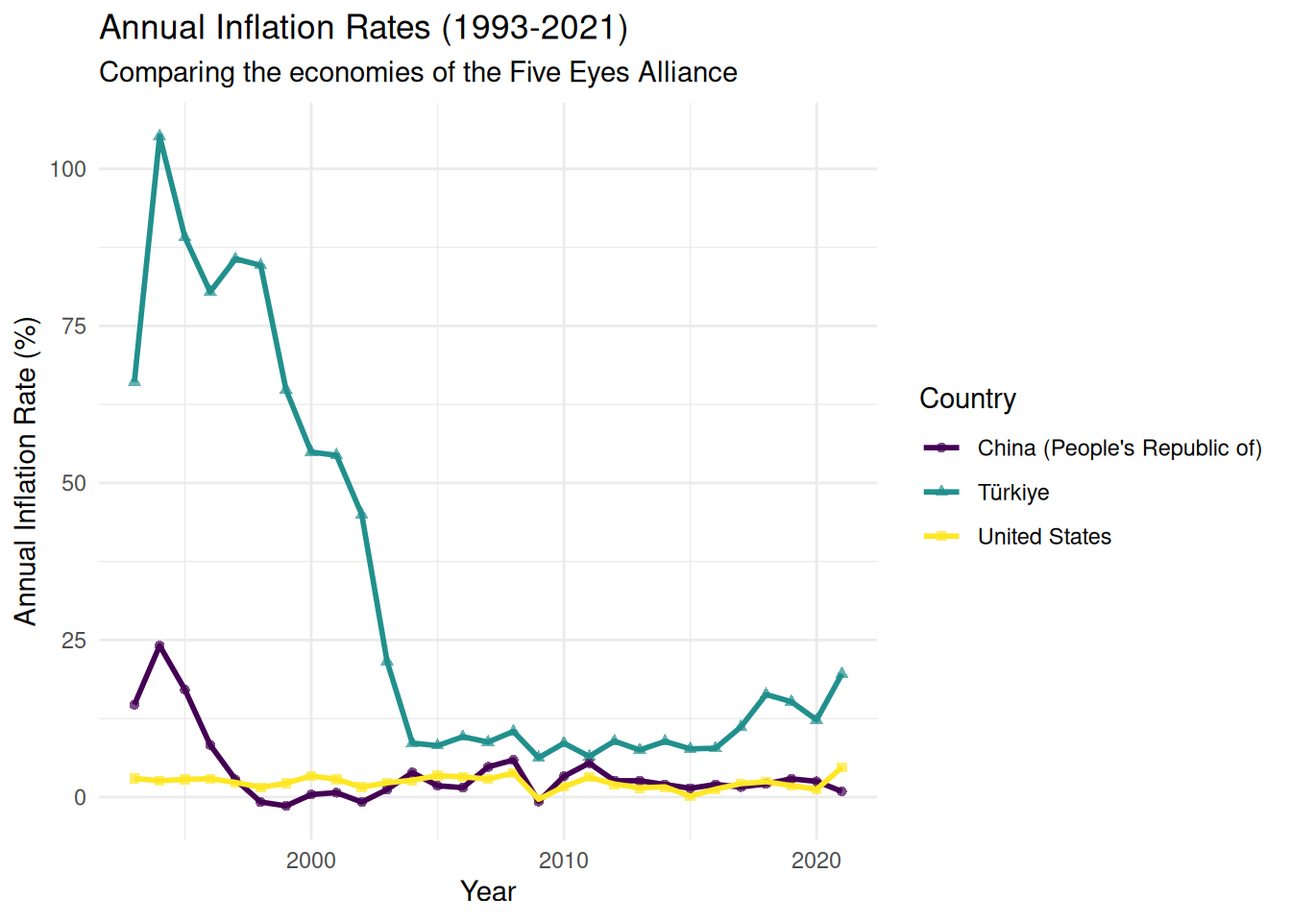
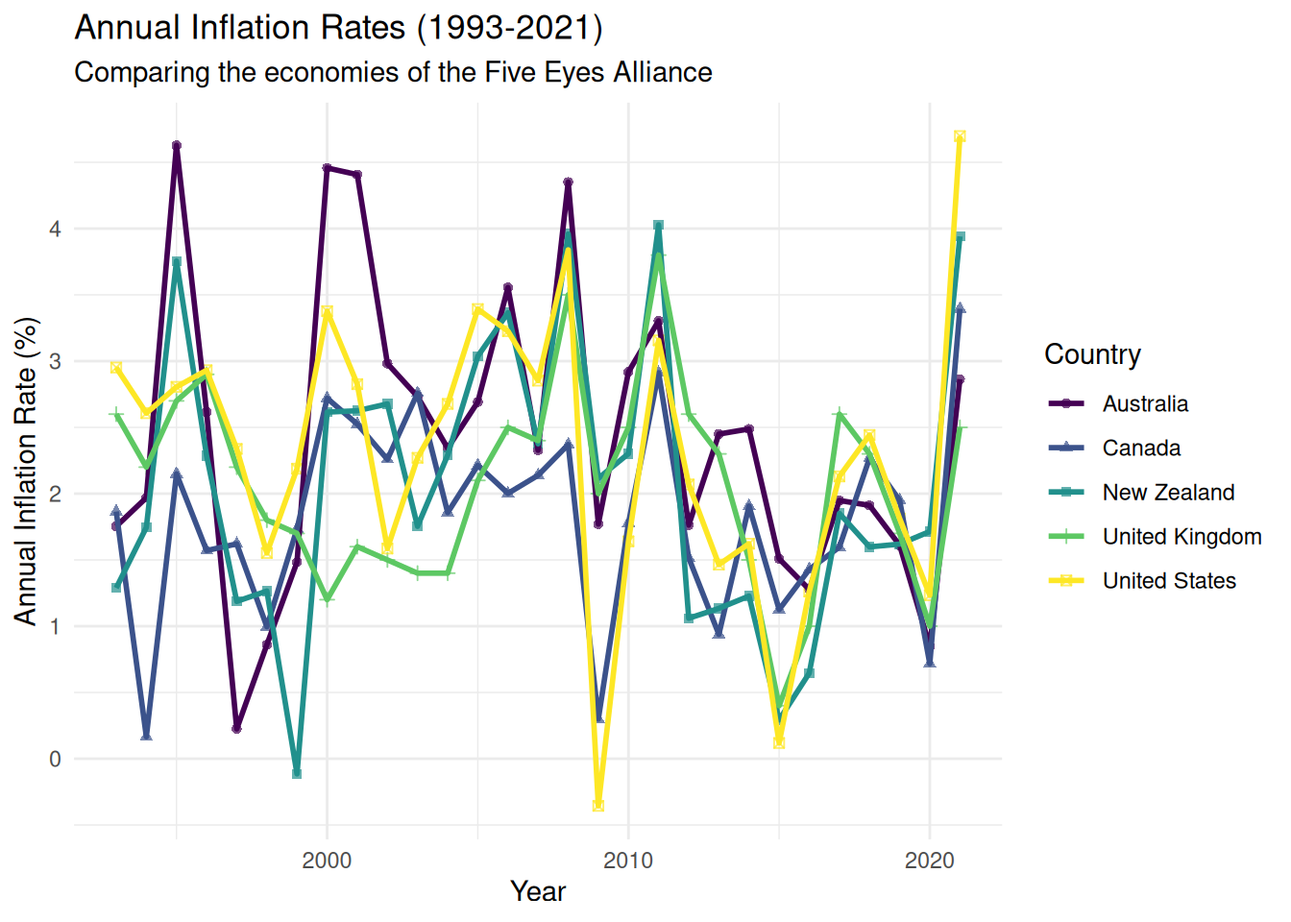
final formatting and wording tweaks

diff --git a/lab-3.html b/lab-3.html
@@ -528,12 +528,6 @@ Important
 <div class="cell">
 <div class="code-copy-outer-scaffold"><div class="sourceCode cell-code" id="cb23"><pre class="sourceCode r code-with-copy"><code class="sourceCode r"><span id="cb23-1"><a href="#cb23-1" aria-hidden="true" tabindex="-1"></a>countries_of_interest <span class="ot">&lt;-</span> <span class="fu">c</span>(<span class="st">"United States"</span>, <span class="st">"Canada"</span>, <span class="st">"United Kingdom"</span>, <span class="st">"New Zealand"</span>, <span class="st">"Australia"</span>)</span></code></pre></div><button title="Copy to Clipboard" class="code-copy-button"><i class="bi"></i></button></div>
 </div>
-<p>If they are Türkiye, United States, and China, you can express this as follows:</p>
-<div class="cell">
-<div class="code-copy-outer-scaffold"><div class="sourceCode cell-code" id="cb24"><pre class="sourceCode r code-with-copy"><code class="sourceCode r"><span id="cb24-1"><a href="#cb24-1" aria-hidden="true" tabindex="-1"></a>countries_of_interest <span class="ot">&lt;-</span> <span class="fu">c</span>(</span>
-<span id="cb24-2"><a href="#cb24-2" aria-hidden="true" tabindex="-1"></a>  <span class="st">"Türkiye"</span>, <span class="st">"United States"</span>, <span class="st">"China (People's Republic of)"</span></span>
-<span id="cb24-3"><a href="#cb24-3" aria-hidden="true" tabindex="-1"></a>)</span></code></pre></div><button title="Copy to Clipboard" class="code-copy-button"><i class="bi"></i></button></div>
-</div>
 <p>So on and so forth… Then, in 1-2 sentences, state why you chose these countries.</p>
 <p>These are the five eyes countries and I think it would be interesting to how these intelligence sharing countries also share inflation and economic indicators.</p>
 <div class="callout callout-style-default callout-note callout-titled">
@@ -551,18 +545,20 @@ Note
 </div>
 <p>b. In a single pipeline, filter your reshaped dataset to include only the <code>countries_of_interest</code> from part (a), and save the resulting data frame with a new name so you (1) can refer to this data frame later in your analysis and (2) do not overwrite the data frame you’re starting with. Use a short but informative name. Then, in a new pipeline, find the <code>distinct()</code> countries in the data frame you created.</p>
 <div class="cell">
-<div class="code-copy-outer-scaffold"><div class="sourceCode cell-code" id="cb25"><pre class="sourceCode r code-with-copy"><code class="sourceCode r"><span id="cb25-1"><a href="#cb25-1" aria-hidden="true" tabindex="-1"></a>coi_inflation <span class="ot">&lt;-</span> country_inflation_longer <span class="sc">|&gt;</span></span>
-<span id="cb25-2"><a href="#cb25-2" aria-hidden="true" tabindex="-1"></a>  <span class="fu">filter</span>(country <span class="sc">%in%</span> countries_of_interest)</span>
-<span id="cb25-3"><a href="#cb25-3" aria-hidden="true" tabindex="-1"></a></span>
-<span id="cb25-4"><a href="#cb25-4" aria-hidden="true" tabindex="-1"></a>coi_inflation <span class="sc">|&gt;</span></span>
-<span id="cb25-5"><a href="#cb25-5" aria-hidden="true" tabindex="-1"></a>  <span class="fu">distinct</span>(country)</span></code></pre></div><button title="Copy to Clipboard" class="code-copy-button"><i class="bi"></i></button></div>
+<div class="code-copy-outer-scaffold"><div class="sourceCode cell-code" id="cb24"><pre class="sourceCode r code-with-copy"><code class="sourceCode r"><span id="cb24-1"><a href="#cb24-1" aria-hidden="true" tabindex="-1"></a>coi_inflation <span class="ot">&lt;-</span> country_inflation_longer <span class="sc">|&gt;</span></span>
+<span id="cb24-2"><a href="#cb24-2" aria-hidden="true" tabindex="-1"></a>  <span class="fu">filter</span>(country <span class="sc">%in%</span> countries_of_interest)</span>
+<span id="cb24-3"><a href="#cb24-3" aria-hidden="true" tabindex="-1"></a></span>
+<span id="cb24-4"><a href="#cb24-4" aria-hidden="true" tabindex="-1"></a>coi_inflation <span class="sc">|&gt;</span></span>
+<span id="cb24-5"><a href="#cb24-5" aria-hidden="true" tabindex="-1"></a>  <span class="fu">distinct</span>(country)</span></code></pre></div><button title="Copy to Clipboard" class="code-copy-button"><i class="bi"></i></button></div>
 <div class="cell-output cell-output-stdout">
-<pre><code># A tibble: 3 × 1
-  country                     
-  &lt;chr&gt;                       
-1 Türkiye                     
-2 United States               
-3 China (People's Republic of)</code></pre>
+<pre><code># A tibble: 5 × 1
+  country       
+  &lt;chr&gt;         
+1 Australia     
+2 Canada        
+3 New Zealand   
+4 United Kingdom
+5 United States </code></pre>
 </div>
 </div>
 <div class="callout callout-style-default callout-tip callout-titled">
@@ -591,19 +587,19 @@ Tip
 <li>Plot should be customized in at least one way – you could use a different than default color scale, or different than default theme, or some other customization.</li>
 </ul>
 <div class="cell">
-<div class="code-copy-outer-scaffold"><div class="sourceCode cell-code" id="cb27"><pre class="sourceCode r code-with-copy"><code class="sourceCode r"><span id="cb27-1"><a href="#cb27-1" aria-hidden="true" tabindex="-1"></a><span class="fu">ggplot</span>(coi_inflation, <span class="fu">aes</span>(<span class="at">x =</span> year, <span class="at">y =</span> annual_inflation, <span class="at">color =</span> country, <span class="at">shape =</span> country)) <span class="sc">+</span></span>
-<span id="cb27-2"><a href="#cb27-2" aria-hidden="true" tabindex="-1"></a>  <span class="fu">geom_point</span>(<span class="at">alpha =</span> <span class="fl">0.7</span>) <span class="sc">+</span></span>
-<span id="cb27-3"><a href="#cb27-3" aria-hidden="true" tabindex="-1"></a>  <span class="fu">geom_line</span>(<span class="at">linewidth =</span> <span class="dv">1</span>) <span class="sc">+</span></span>
-<span id="cb27-4"><a href="#cb27-4" aria-hidden="true" tabindex="-1"></a>  <span class="fu">scale_color_viridis_d</span>() <span class="sc">+</span></span>
-<span id="cb27-5"><a href="#cb27-5" aria-hidden="true" tabindex="-1"></a>  <span class="fu">theme_minimal</span>() <span class="sc">+</span></span>
-<span id="cb27-6"><a href="#cb27-6" aria-hidden="true" tabindex="-1"></a>  <span class="fu">labs</span>(</span>
-<span id="cb27-7"><a href="#cb27-7" aria-hidden="true" tabindex="-1"></a>    <span class="at">title =</span> <span class="st">"Annual Inflation Rates (1993-2021)"</span>,</span>
-<span id="cb27-8"><a href="#cb27-8" aria-hidden="true" tabindex="-1"></a>    <span class="at">subtitle =</span> <span class="st">"Comparing the economies of the Five Eyes Alliance"</span>,</span>
-<span id="cb27-9"><a href="#cb27-9" aria-hidden="true" tabindex="-1"></a>    <span class="at">x =</span> <span class="st">"Year"</span>,</span>
-<span id="cb27-10"><a href="#cb27-10" aria-hidden="true" tabindex="-1"></a>    <span class="at">y =</span> <span class="st">"Annual Inflation Rate (%)"</span>,</span>
-<span id="cb27-11"><a href="#cb27-11" aria-hidden="true" tabindex="-1"></a>    <span class="at">color =</span> <span class="st">"Country"</span>,</span>
-<span id="cb27-12"><a href="#cb27-12" aria-hidden="true" tabindex="-1"></a>    <span class="at">shape =</span> <span class="st">"Country"</span></span>
-<span id="cb27-13"><a href="#cb27-13" aria-hidden="true" tabindex="-1"></a>  )</span></code></pre></div><button title="Copy to Clipboard" class="code-copy-button"><i class="bi"></i></button></div>
+<div class="code-copy-outer-scaffold"><div class="sourceCode cell-code" id="cb26"><pre class="sourceCode r code-with-copy"><code class="sourceCode r"><span id="cb26-1"><a href="#cb26-1" aria-hidden="true" tabindex="-1"></a><span class="fu">ggplot</span>(coi_inflation, <span class="fu">aes</span>(<span class="at">x =</span> year, <span class="at">y =</span> annual_inflation, <span class="at">color =</span> country, <span class="at">shape =</span> country)) <span class="sc">+</span></span>
+<span id="cb26-2"><a href="#cb26-2" aria-hidden="true" tabindex="-1"></a>  <span class="fu">geom_point</span>(<span class="at">alpha =</span> <span class="fl">0.7</span>) <span class="sc">+</span></span>
+<span id="cb26-3"><a href="#cb26-3" aria-hidden="true" tabindex="-1"></a>  <span class="fu">geom_line</span>(<span class="at">linewidth =</span> <span class="dv">1</span>) <span class="sc">+</span></span>
+<span id="cb26-4"><a href="#cb26-4" aria-hidden="true" tabindex="-1"></a>  <span class="fu">scale_color_viridis_d</span>() <span class="sc">+</span></span>
+<span id="cb26-5"><a href="#cb26-5" aria-hidden="true" tabindex="-1"></a>  <span class="fu">theme_minimal</span>() <span class="sc">+</span></span>
+<span id="cb26-6"><a href="#cb26-6" aria-hidden="true" tabindex="-1"></a>  <span class="fu">labs</span>(</span>
+<span id="cb26-7"><a href="#cb26-7" aria-hidden="true" tabindex="-1"></a>    <span class="at">title =</span> <span class="st">"Annual Inflation Rates (1993-2021)"</span>,</span>
+<span id="cb26-8"><a href="#cb26-8" aria-hidden="true" tabindex="-1"></a>    <span class="at">subtitle =</span> <span class="st">"Comparing the economies of the Five Eyes Alliance"</span>,</span>
+<span id="cb26-9"><a href="#cb26-9" aria-hidden="true" tabindex="-1"></a>    <span class="at">x =</span> <span class="st">"Year"</span>,</span>
+<span id="cb26-10"><a href="#cb26-10" aria-hidden="true" tabindex="-1"></a>    <span class="at">y =</span> <span class="st">"Annual Inflation Rate (%)"</span>,</span>
+<span id="cb26-11"><a href="#cb26-11" aria-hidden="true" tabindex="-1"></a>    <span class="at">color =</span> <span class="st">"Country"</span>,</span>
+<span id="cb26-12"><a href="#cb26-12" aria-hidden="true" tabindex="-1"></a>    <span class="at">shape =</span> <span class="st">"Country"</span></span>
+<span id="cb26-13"><a href="#cb26-13" aria-hidden="true" tabindex="-1"></a>  )</span></code></pre></div><button title="Copy to Clipboard" class="code-copy-button"><i class="bi"></i></button></div>
 <div class="cell-output-display">
 <div>
 <figure class="figure">
@@ -632,13 +628,13 @@ Tip
 </ul>
 <p>Let’s load both of these files.</p>
 <div class="cell">
-<div class="code-copy-outer-scaffold"><div class="sourceCode cell-code" id="cb28"><pre class="sourceCode r code-with-copy"><code class="sourceCode r"><span id="cb28-1"><a href="#cb28-1" aria-hidden="true" tabindex="-1"></a>us_inflation <span class="ot">&lt;-</span> <span class="fu">read_csv</span>(<span class="st">"data/us-inflation.csv"</span>)</span>
-<span id="cb28-2"><a href="#cb28-2" aria-hidden="true" tabindex="-1"></a>cpi_divisions <span class="ot">&lt;-</span> <span class="fu">read_csv</span>(<span class="st">"data/cpi-divisions.csv"</span>)</span></code></pre></div><button title="Copy to Clipboard" class="code-copy-button"><i class="bi"></i></button></div>
+<div class="code-copy-outer-scaffold"><div class="sourceCode cell-code" id="cb27"><pre class="sourceCode r code-with-copy"><code class="sourceCode r"><span id="cb27-1"><a href="#cb27-1" aria-hidden="true" tabindex="-1"></a>us_inflation <span class="ot">&lt;-</span> <span class="fu">read_csv</span>(<span class="st">"data/us-inflation.csv"</span>)</span>
+<span id="cb27-2"><a href="#cb27-2" aria-hidden="true" tabindex="-1"></a>cpi_divisions <span class="ot">&lt;-</span> <span class="fu">read_csv</span>(<span class="st">"data/cpi-divisions.csv"</span>)</span></code></pre></div><button title="Copy to Clipboard" class="code-copy-button"><i class="bi"></i></button></div>
 </div>
 <section id="question-8" class="level3">
 <h3 class="anchored" data-anchor-id="question-8">Question 8</h3>
 <div class="cell">
-<div class="code-copy-outer-scaffold"><div class="sourceCode cell-code" id="cb29"><pre class="sourceCode r code-with-copy"><code class="sourceCode r"><span id="cb29-1"><a href="#cb29-1" aria-hidden="true" tabindex="-1"></a><span class="fu">glimpse</span>(us_inflation)</span></code></pre></div><button title="Copy to Clipboard" class="code-copy-button"><i class="bi"></i></button></div>
+<div class="code-copy-outer-scaffold"><div class="sourceCode cell-code" id="cb28"><pre class="sourceCode r code-with-copy"><code class="sourceCode r"><span id="cb28-1"><a href="#cb28-1" aria-hidden="true" tabindex="-1"></a><span class="fu">glimpse</span>(us_inflation)</span></code></pre></div><button title="Copy to Clipboard" class="code-copy-button"><i class="bi"></i></button></div>
 <div class="cell-output cell-output-stdout">
 <pre><code>Rows: 132
 Columns: 4
@@ -652,7 +648,7 @@ $ annual_inflation &lt;dbl&gt; 4.8039240, 2.4539620, 0.9083796, 2.6398010, 1.167
 <p>The us_inflation dataset contains 132 rows and 4 columns. The variables represent tracking information like the year, the inflation rate, and a numeric ID corresponding to a specific CPI division.</p>
 <p>b. How many columns and how many rows does the <code>cpi_divisions</code> dataset have? What are the variables in it? Add a brief (1-2 sentences) narrative summarizing this information.</p>
 <div class="cell">
-<div class="code-copy-outer-scaffold"><div class="sourceCode cell-code" id="cb31"><pre class="sourceCode r code-with-copy"><code class="sourceCode r"><span id="cb31-1"><a href="#cb31-1" aria-hidden="true" tabindex="-1"></a><span class="fu">glimpse</span>(cpi_divisions)</span></code></pre></div><button title="Copy to Clipboard" class="code-copy-button"><i class="bi"></i></button></div>
+<div class="code-copy-outer-scaffold"><div class="sourceCode cell-code" id="cb30"><pre class="sourceCode r code-with-copy"><code class="sourceCode r"><span id="cb30-1"><a href="#cb30-1" aria-hidden="true" tabindex="-1"></a><span class="fu">glimpse</span>(cpi_divisions)</span></code></pre></div><button title="Copy to Clipboard" class="code-copy-button"><i class="bi"></i></button></div>
 <div class="cell-output cell-output-stdout">
 <pre><code>Rows: 12
 Columns: 2
@@ -669,14 +665,14 @@ $ description &lt;chr&gt; "Food and non-Alcoholic beverages", "Alcoholic beverag
 </ul>
 <p>Then, find the number of rows and columns of the resulting dataset and report the names of its columns. Add a brief (1-2 sentences) narrative summarizing this information.</p>
 <div class="cell">
-<div class="code-copy-outer-scaffold"><div class="sourceCode cell-code" id="cb33"><pre class="sourceCode r code-with-copy"><code class="sourceCode r"><span id="cb33-1"><a href="#cb33-1" aria-hidden="true" tabindex="-1"></a>us_inflation_joined <span class="ot">&lt;-</span> us_inflation <span class="sc">|&gt;</span></span>
-<span id="cb33-2"><a href="#cb33-2" aria-hidden="true" tabindex="-1"></a>  <span class="fu">left_join</span>(cpi_divisions, <span class="at">by =</span> <span class="fu">join_by</span>(cpi_division_id <span class="sc">==</span> id)) </span>
-<span id="cb33-3"><a href="#cb33-3" aria-hidden="true" tabindex="-1"></a></span>
-<span id="cb33-4"><a href="#cb33-4" aria-hidden="true" tabindex="-1"></a><span class="fu">dim</span>(us_inflation_joined)</span></code></pre></div><button title="Copy to Clipboard" class="code-copy-button"><i class="bi"></i></button></div>
+<div class="code-copy-outer-scaffold"><div class="sourceCode cell-code" id="cb32"><pre class="sourceCode r code-with-copy"><code class="sourceCode r"><span id="cb32-1"><a href="#cb32-1" aria-hidden="true" tabindex="-1"></a>us_inflation_joined <span class="ot">&lt;-</span> us_inflation <span class="sc">|&gt;</span></span>
+<span id="cb32-2"><a href="#cb32-2" aria-hidden="true" tabindex="-1"></a>  <span class="fu">left_join</span>(cpi_divisions, <span class="at">by =</span> <span class="fu">join_by</span>(cpi_division_id <span class="sc">==</span> id)) </span>
+<span id="cb32-3"><a href="#cb32-3" aria-hidden="true" tabindex="-1"></a></span>
+<span id="cb32-4"><a href="#cb32-4" aria-hidden="true" tabindex="-1"></a><span class="fu">dim</span>(us_inflation_joined)</span></code></pre></div><button title="Copy to Clipboard" class="code-copy-button"><i class="bi"></i></button></div>
 <div class="cell-output cell-output-stdout">
 <pre><code>[1] 132   5</code></pre>
 </div>
-<div class="code-copy-outer-scaffold"><div class="sourceCode cell-code" id="cb35"><pre class="sourceCode r code-with-copy"><code class="sourceCode r"><span id="cb35-1"><a href="#cb35-1" aria-hidden="true" tabindex="-1"></a><span class="fu">names</span>(us_inflation_joined)</span></code></pre></div><button title="Copy to Clipboard" class="code-copy-button"><i class="bi"></i></button></div>
+<div class="code-copy-outer-scaffold"><div class="sourceCode cell-code" id="cb34"><pre class="sourceCode r code-with-copy"><code class="sourceCode r"><span id="cb34-1"><a href="#cb34-1" aria-hidden="true" tabindex="-1"></a><span class="fu">names</span>(us_inflation_joined)</span></code></pre></div><button title="Copy to Clipboard" class="code-copy-button"><i class="bi"></i></button></div>
 <div class="cell-output cell-output-stdout">
 <pre><code>[1] "country"          "cpi_division_id"  "year"             "annual_inflation"
 [5] "description"     </code></pre>
@@ -698,22 +694,22 @@ Tip
 </div>
 </div>
 <div class="cell">
-<div class="code-copy-outer-scaffold"><div class="sourceCode cell-code" id="cb37"><pre class="sourceCode r code-with-copy"><code class="sourceCode r"><span id="cb37-1"><a href="#cb37-1" aria-hidden="true" tabindex="-1"></a>divisions_of_interest <span class="ot">&lt;-</span> <span class="fu">c</span>(</span>
-<span id="cb37-2"><a href="#cb37-2" aria-hidden="true" tabindex="-1"></a></span>
-<span id="cb37-3"><a href="#cb37-3" aria-hidden="true" tabindex="-1"></a>  <span class="st">"Health"</span>, </span>
-<span id="cb37-4"><a href="#cb37-4" aria-hidden="true" tabindex="-1"></a>  <span class="st">"Education"</span>, </span>
-<span id="cb37-5"><a href="#cb37-5" aria-hidden="true" tabindex="-1"></a>  <span class="st">"Transport"</span></span>
-<span id="cb37-6"><a href="#cb37-6" aria-hidden="true" tabindex="-1"></a>)</span></code></pre></div><button title="Copy to Clipboard" class="code-copy-button"><i class="bi"></i></button></div>
+<div class="code-copy-outer-scaffold"><div class="sourceCode cell-code" id="cb36"><pre class="sourceCode r code-with-copy"><code class="sourceCode r"><span id="cb36-1"><a href="#cb36-1" aria-hidden="true" tabindex="-1"></a>divisions_of_interest <span class="ot">&lt;-</span> <span class="fu">c</span>(</span>
+<span id="cb36-2"><a href="#cb36-2" aria-hidden="true" tabindex="-1"></a></span>
+<span id="cb36-3"><a href="#cb36-3" aria-hidden="true" tabindex="-1"></a>  <span class="st">"Health"</span>, </span>
+<span id="cb36-4"><a href="#cb36-4" aria-hidden="true" tabindex="-1"></a>  <span class="st">"Education"</span>, </span>
+<span id="cb36-5"><a href="#cb36-5" aria-hidden="true" tabindex="-1"></a>  <span class="st">"Transport"</span></span>
+<span id="cb36-6"><a href="#cb36-6" aria-hidden="true" tabindex="-1"></a>)</span></code></pre></div><button title="Copy to Clipboard" class="code-copy-button"><i class="bi"></i></button></div>
 </div>
-<p>I chose these five divisions because they represent essential, core living expenses for the average Canadian household, which makes their inflation trends highly relevant to daily life.</p>
+<p>I chose these three divisions because they represent essential, general expenses for the average Canadian household and especially students, which makes their inflation trends highly relevant to daily life.</p>
 <p>b. In a single pipeline, filter your reshaped dataset to include only the <code>divisions_of_interest</code> from part (a), and save the resulting data frame with a new name so you (1) can refer to this data frame later in your analysis and (2) do not overwrite the data frame you’re starting with. Use a short but informative name. Then, in a new pipeline, find the <code>distinct()</code> divisions in the data frame you created.</p>
 <div class="cell">
-<div class="code-copy-outer-scaffold"><div class="sourceCode cell-code" id="cb38"><pre class="sourceCode r code-with-copy"><code class="sourceCode r"><span id="cb38-1"><a href="#cb38-1" aria-hidden="true" tabindex="-1"></a>us_inf_filtered <span class="ot">&lt;-</span> us_inflation_joined <span class="sc">|&gt;</span></span>
-<span id="cb38-2"><a href="#cb38-2" aria-hidden="true" tabindex="-1"></a>  <span class="fu">filter</span>(description <span class="sc">%in%</span> divisions_of_interest) </span>
-<span id="cb38-3"><a href="#cb38-3" aria-hidden="true" tabindex="-1"></a></span>
-<span id="cb38-4"><a href="#cb38-4" aria-hidden="true" tabindex="-1"></a></span>
-<span id="cb38-5"><a href="#cb38-5" aria-hidden="true" tabindex="-1"></a>us_inf_filtered <span class="sc">|&gt;</span></span>
-<span id="cb38-6"><a href="#cb38-6" aria-hidden="true" tabindex="-1"></a>  <span class="fu">distinct</span>(description)</span></code></pre></div><button title="Copy to Clipboard" class="code-copy-button"><i class="bi"></i></button></div>
+<div class="code-copy-outer-scaffold"><div class="sourceCode cell-code" id="cb37"><pre class="sourceCode r code-with-copy"><code class="sourceCode r"><span id="cb37-1"><a href="#cb37-1" aria-hidden="true" tabindex="-1"></a>us_inf_filtered <span class="ot">&lt;-</span> us_inflation_joined <span class="sc">|&gt;</span></span>
+<span id="cb37-2"><a href="#cb37-2" aria-hidden="true" tabindex="-1"></a>  <span class="fu">filter</span>(description <span class="sc">%in%</span> divisions_of_interest) </span>
+<span id="cb37-3"><a href="#cb37-3" aria-hidden="true" tabindex="-1"></a></span>
+<span id="cb37-4"><a href="#cb37-4" aria-hidden="true" tabindex="-1"></a></span>
+<span id="cb37-5"><a href="#cb37-5" aria-hidden="true" tabindex="-1"></a>us_inf_filtered <span class="sc">|&gt;</span></span>
+<span id="cb37-6"><a href="#cb37-6" aria-hidden="true" tabindex="-1"></a>  <span class="fu">distinct</span>(description)</span></code></pre></div><button title="Copy to Clipboard" class="code-copy-button"><i class="bi"></i></button></div>
 <div class="cell-output cell-output-stdout">
 <pre><code># A tibble: 3 × 1
   description
@@ -739,28 +735,28 @@ Tip
 <p>If you haven’t yet done so since Part 1, now is a good time to render, commit, and push. Make sure that you commit and push all changed documents and your Git pane is completely empty before proceeding.</p>
 </div>
 <div class="cell">
-<div class="code-copy-outer-scaffold"><div class="sourceCode cell-code" id="cb40"><pre class="sourceCode r code-with-copy"><code class="sourceCode r"><span id="cb40-1"><a href="#cb40-1" aria-hidden="true" tabindex="-1"></a><span class="fu">ggplot</span>(us_inf_filtered, <span class="fu">aes</span>(<span class="at">x =</span> year, <span class="at">y =</span> annual_inflation, </span>
-<span id="cb40-2"><a href="#cb40-2" aria-hidden="true" tabindex="-1"></a><span class="at">color =</span> description, <span class="at">shape =</span>  description)) <span class="sc">+</span></span>
-<span id="cb40-3"><a href="#cb40-3" aria-hidden="true" tabindex="-1"></a>  <span class="fu">geom_point</span>(<span class="at">alpha =</span> <span class="fl">0.8</span>) <span class="sc">+</span></span>
-<span id="cb40-4"><a href="#cb40-4" aria-hidden="true" tabindex="-1"></a>  <span class="fu">geom_line</span>(<span class="at">linewidth =</span> <span class="dv">1</span>) <span class="sc">+</span></span>
-<span id="cb40-5"><a href="#cb40-5" aria-hidden="true" tabindex="-1"></a>  <span class="fu">theme_light</span>() <span class="sc">+</span></span>
-<span id="cb40-6"><a href="#cb40-6" aria-hidden="true" tabindex="-1"></a>  <span class="fu">scale_color_brewer</span>(<span class="at">palette =</span> <span class="st">"Dark2"</span>) <span class="sc">+</span></span>
-<span id="cb40-7"><a href="#cb40-7" aria-hidden="true" tabindex="-1"></a>  <span class="fu">labs</span>(</span>
-<span id="cb40-8"><a href="#cb40-8" aria-hidden="true" tabindex="-1"></a>    <span class="at">title =</span> <span class="st">"US Annual Inflation by CPI Division"</span>,</span>
-<span id="cb40-9"><a href="#cb40-9" aria-hidden="true" tabindex="-1"></a>    <span class="at">subtitle =</span> <span class="st">"Focusing on core consumer expenses"</span>,</span>
-<span id="cb40-10"><a href="#cb40-10" aria-hidden="true" tabindex="-1"></a>    <span class="at">x =</span> <span class="st">"Year"</span>,</span>
-<span id="cb40-11"><a href="#cb40-11" aria-hidden="true" tabindex="-1"></a>    <span class="at">y =</span> <span class="st">"Annual Inflation Rate (%)"</span>,</span>
-<span id="cb40-12"><a href="#cb40-12" aria-hidden="true" tabindex="-1"></a>    <span class="at">color =</span> <span class="st">"CPI Division"</span>,</span>
-<span id="cb40-13"><a href="#cb40-13" aria-hidden="true" tabindex="-1"></a>    <span class="at">shape =</span> <span class="st">"CPI Division"</span></span>
-<span id="cb40-14"><a href="#cb40-14" aria-hidden="true" tabindex="-1"></a>  ) <span class="sc">+</span></span>
-<span id="cb40-15"><a href="#cb40-15" aria-hidden="true" tabindex="-1"></a>  <span class="fu">theme</span>(</span>
-<span id="cb40-16"><a href="#cb40-16" aria-hidden="true" tabindex="-1"></a>    <span class="at">legend.position =</span> <span class="st">"bottom"</span>, </span>
-<span id="cb40-17"><a href="#cb40-17" aria-hidden="true" tabindex="-1"></a>    <span class="at">legend.direction =</span> <span class="st">"vertical"</span></span>
-<span id="cb40-18"><a href="#cb40-18" aria-hidden="true" tabindex="-1"></a>  )</span></code></pre></div><button title="Copy to Clipboard" class="code-copy-button"><i class="bi"></i></button></div>
+<div class="code-copy-outer-scaffold"><div class="sourceCode cell-code" id="cb39"><pre class="sourceCode r code-with-copy"><code class="sourceCode r"><span id="cb39-1"><a href="#cb39-1" aria-hidden="true" tabindex="-1"></a><span class="fu">ggplot</span>(us_inf_filtered, <span class="fu">aes</span>(<span class="at">x =</span> year, <span class="at">y =</span> annual_inflation, </span>
+<span id="cb39-2"><a href="#cb39-2" aria-hidden="true" tabindex="-1"></a><span class="at">color =</span> description, <span class="at">shape =</span>  description)) <span class="sc">+</span></span>
+<span id="cb39-3"><a href="#cb39-3" aria-hidden="true" tabindex="-1"></a>  <span class="fu">geom_point</span>(<span class="at">alpha =</span> <span class="fl">0.8</span>) <span class="sc">+</span></span>
+<span id="cb39-4"><a href="#cb39-4" aria-hidden="true" tabindex="-1"></a>  <span class="fu">geom_line</span>(<span class="at">linewidth =</span> <span class="dv">1</span>) <span class="sc">+</span></span>
+<span id="cb39-5"><a href="#cb39-5" aria-hidden="true" tabindex="-1"></a>  <span class="fu">theme_light</span>() <span class="sc">+</span></span>
+<span id="cb39-6"><a href="#cb39-6" aria-hidden="true" tabindex="-1"></a>  <span class="fu">scale_color_brewer</span>(<span class="at">palette =</span> <span class="st">"Dark2"</span>) <span class="sc">+</span></span>
+<span id="cb39-7"><a href="#cb39-7" aria-hidden="true" tabindex="-1"></a>  <span class="fu">labs</span>(</span>
+<span id="cb39-8"><a href="#cb39-8" aria-hidden="true" tabindex="-1"></a>    <span class="at">title =</span> <span class="st">"US Annual Inflation by CPI Division"</span>,</span>
+<span id="cb39-9"><a href="#cb39-9" aria-hidden="true" tabindex="-1"></a>    <span class="at">subtitle =</span> <span class="st">"Focusing on core consumer expenses"</span>,</span>
+<span id="cb39-10"><a href="#cb39-10" aria-hidden="true" tabindex="-1"></a>    <span class="at">x =</span> <span class="st">"Year"</span>,</span>
+<span id="cb39-11"><a href="#cb39-11" aria-hidden="true" tabindex="-1"></a>    <span class="at">y =</span> <span class="st">"Annual Inflation Rate (%)"</span>,</span>
+<span id="cb39-12"><a href="#cb39-12" aria-hidden="true" tabindex="-1"></a>    <span class="at">color =</span> <span class="st">"CPI Division"</span>,</span>
+<span id="cb39-13"><a href="#cb39-13" aria-hidden="true" tabindex="-1"></a>    <span class="at">shape =</span> <span class="st">"CPI Division"</span></span>
+<span id="cb39-14"><a href="#cb39-14" aria-hidden="true" tabindex="-1"></a>  ) <span class="sc">+</span></span>
+<span id="cb39-15"><a href="#cb39-15" aria-hidden="true" tabindex="-1"></a>  <span class="fu">theme</span>(</span>
+<span id="cb39-16"><a href="#cb39-16" aria-hidden="true" tabindex="-1"></a>    <span class="at">legend.position =</span> <span class="st">"bottom"</span>, </span>
+<span id="cb39-17"><a href="#cb39-17" aria-hidden="true" tabindex="-1"></a>    <span class="at">legend.direction =</span> <span class="st">"vertical"</span></span>
+<span id="cb39-18"><a href="#cb39-18" aria-hidden="true" tabindex="-1"></a>  )</span></code></pre></div><button title="Copy to Clipboard" class="code-copy-button"><i class="bi"></i></button></div>
 <div class="cell-output-display">
 <div>
 <figure class="figure">
-<p><img src="lab-3_files/figure-html/unnamed-chunk-18-1.png" class="img-fluid figure-img" width="672"></p>
+<p><img src="lab-3_files/figure-html/unnamed-chunk-17-1.png" class="img-fluid figure-img" width="672"></p>
 </figure>
 </div>
 </div>
